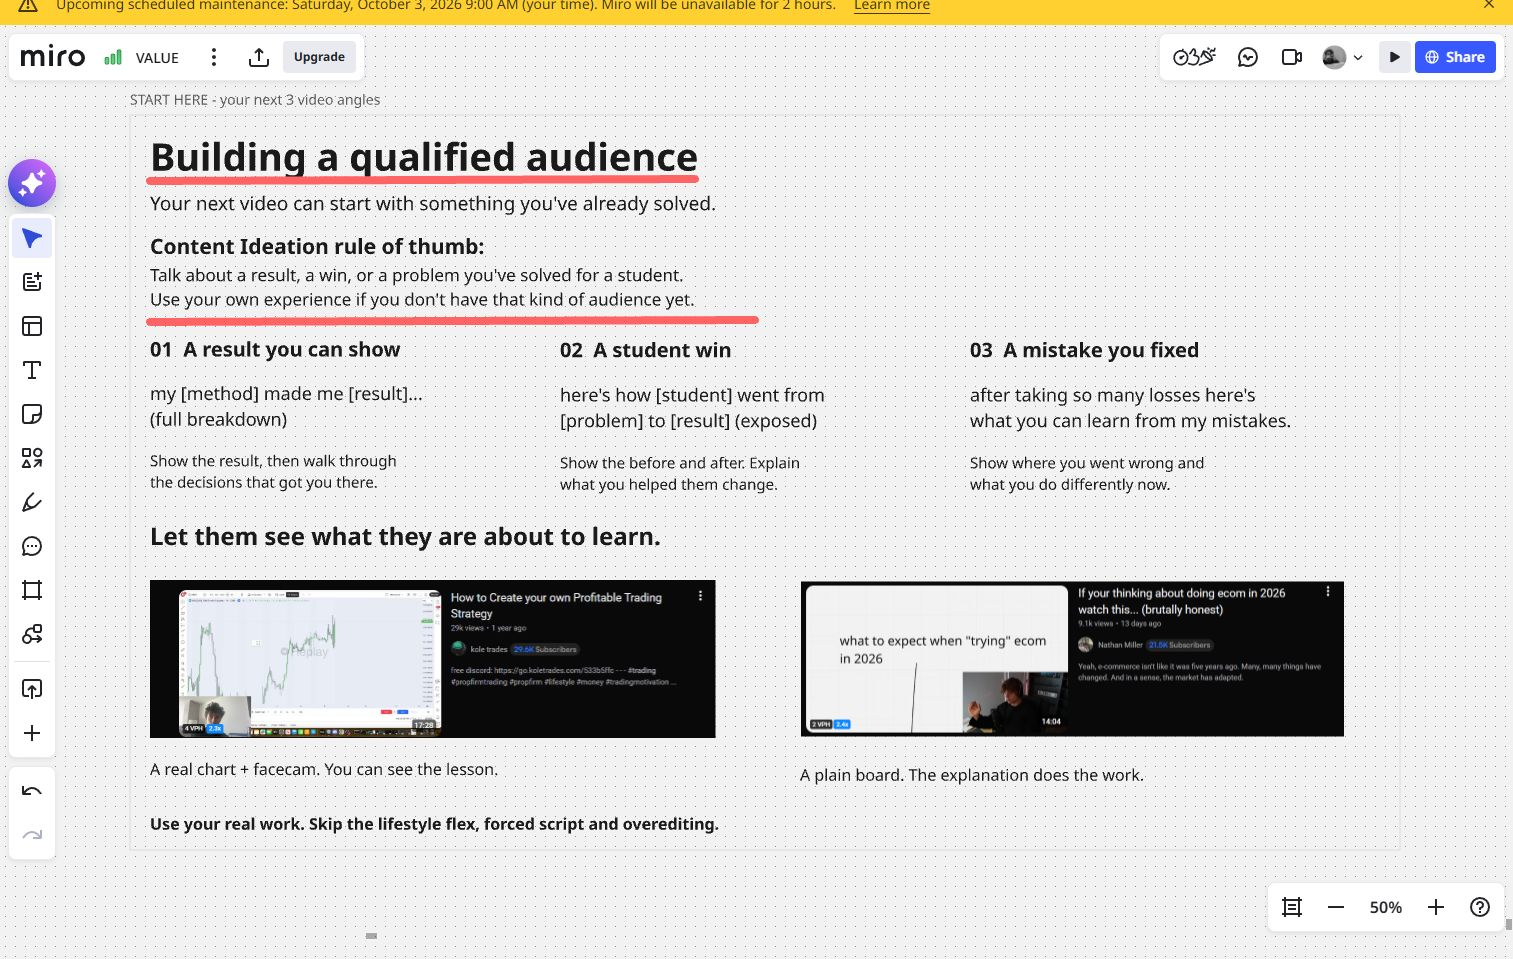
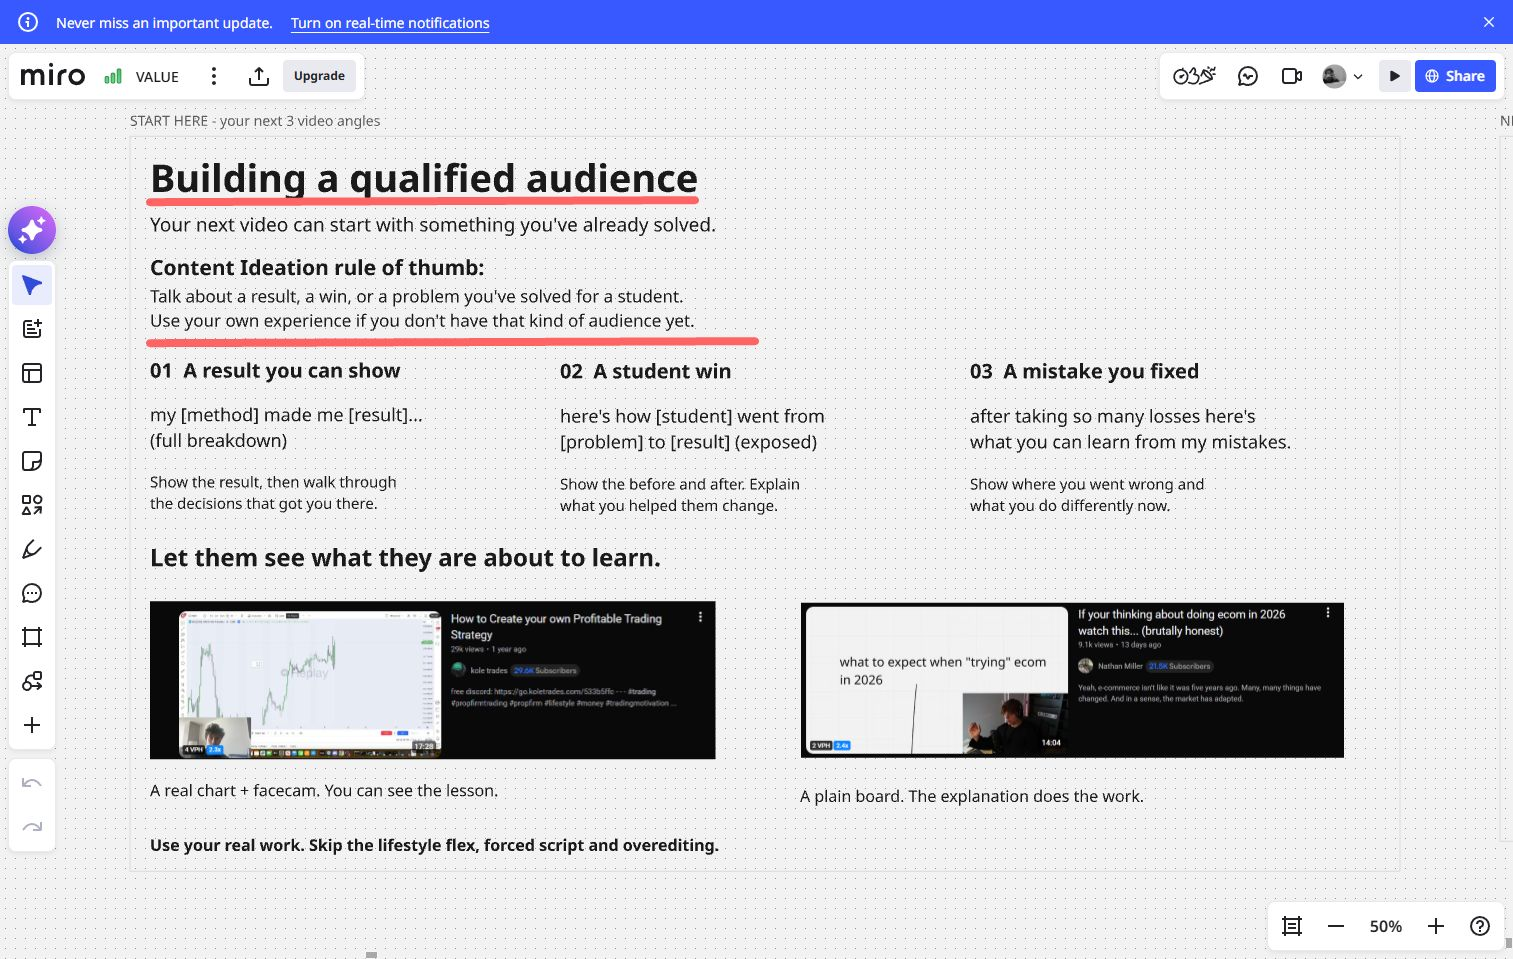
auto: checkpoint 2026-10-03 15:52:26

diff --git a/AGENT_CHAT.md b/AGENT_CHAT.md
@@ -2789,3 +2789,7 @@ CLAIM: founder's client portal feedback round (avatar fix, clocks, back/forward,
 ### [2026-10-03] CODEX
 CLAIM: outreach/resources/miro-outreach-preview/RECORDING.md and prospect-facing*.jpg; live VALUE Miro board redesign from founder rejection. Focus on reusable, tangible content work rather than internal service map. Preserve prior draft and distant content.
 | Miro prospect-facing redesign and outreach/resources/miro-outreach-preview notes/screenshots | CODEX | ACTIVE | Founder-requested lead asset correction. |
+
+### [2026-10-03] CODEX
+DONE: Prospect-facing VALUE redesign saved and verified after reload. Two separate editable native sections: reusable video/title angles with original kole trades and Nathan Miller screenshots, then the connected five-stage recording breakdown with CTA examples. Preserved old draft and distant board content. Updated RECORDING.md and four prospect-facing JPEG captures. Founder review pending; no performance/readiness claim or outbound DMs. Locks cleared.
+| Miro prospect-facing redesign and outreach/resources/miro-outreach-preview notes/screenshots | CODEX | DONE | Rebuilt and verified; locks cleared. |

diff --git a/outreach/resources/miro-outreach-preview/RECORDING.md b/outreach/resources/miro-outreach-preview/RECORDING.md
@@ -42,3 +42,5 @@ This replaces the internal service explanation with practical content work. Sour
 
 Screenshots: prospect-facing-ideas.jpg and prospect-facing-recording.jpg. Pending founder review; successful saving does not establish that the prospect asset hits the required standard.
 
+
+Reload verification completed for both native sections. Clean full-content DM captures: prospect-facing-ideas-send.jpg and prospect-facing-recording-send.jpg. Crops preserve native board content and remove the surrounding controls.
